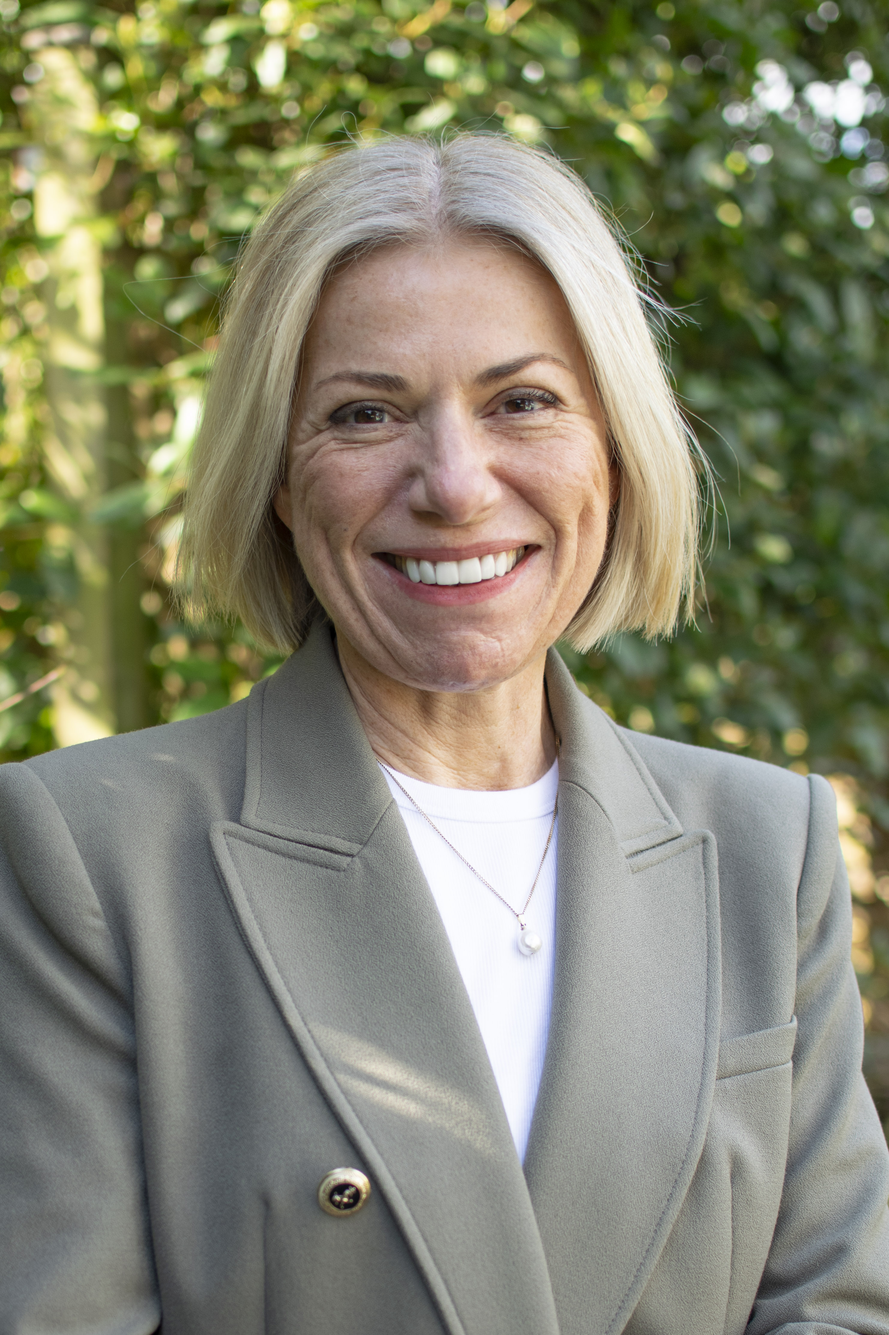
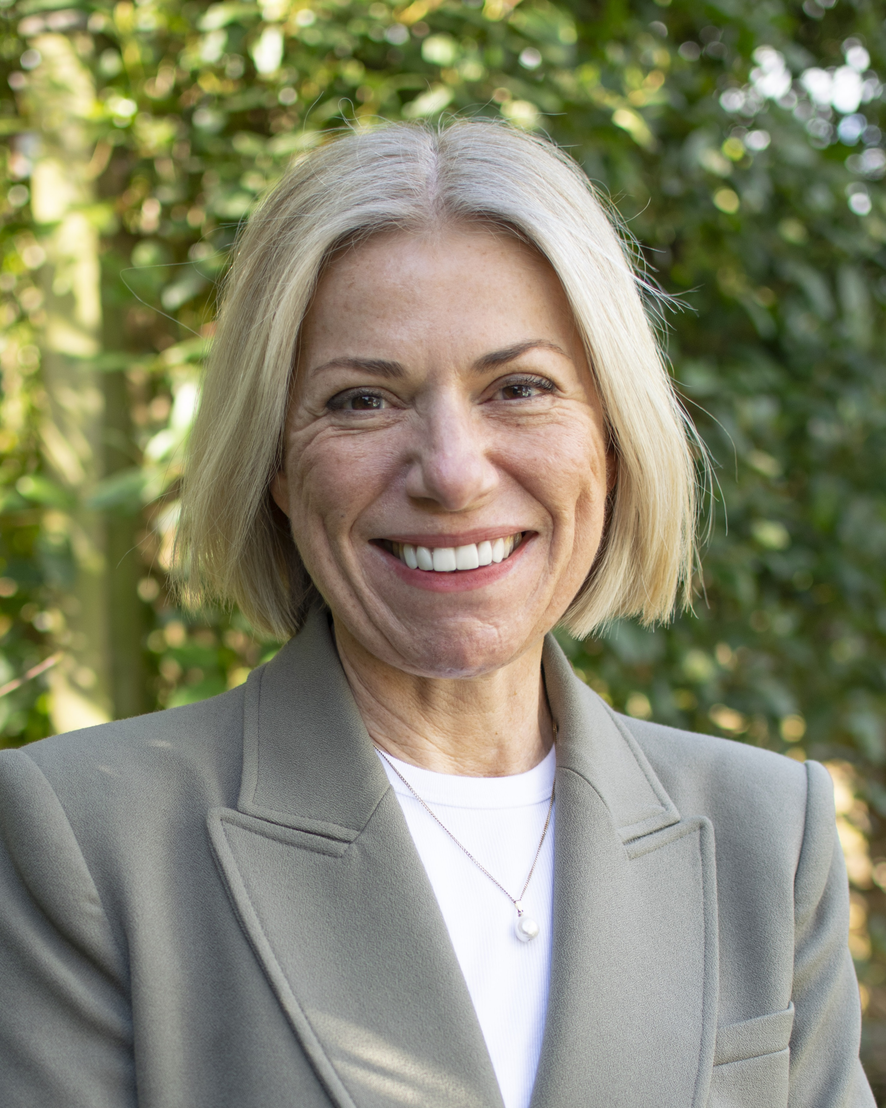
image and other tweaks

diff --git a/src/modules/footer/Footer.jsx b/src/modules/footer/Footer.jsx
@@ -19,7 +19,7 @@ export const Footer = () => (
   <>
     <FooterWrapper data-test-id="footer">
       <Box float="left">
-        <Text>Website By:&nbsp;
+        <Text textStyle={["xs", "xs", "md", "lg"]}>Website By:&nbsp;
           <CustomLink
             href="https://uk.linkedin.com/in/freddie-laycock-a23974171"
             newTab={true}
@@ -28,7 +28,7 @@ export const Footer = () => (
         </Text>
       </Box>
       <Box float="right">
-        <Text>
+        <Text textStyle={["xs", "xs", "md", "lg"]}>
           Photos By:&nbsp;
           <CustomLink
             href="#"

diff --git a/src/modules/contact/Contact.jsx b/src/modules/contact/Contact.jsx
@@ -9,7 +9,7 @@ export const Contact = () => (
   <Box id="contact" paddingBottom="16px">
     <SectionContainer heading="Contact Me">
       <Box marginY="auto">
-        <Image htmlWidth="100%" src={contact} />
+        <Image htmlWidth="100%" loading="lazy" src={contact} />
       </Box>
       <Box marginY="auto">
         <Text textStyle={["sm", "sm", "lg", "xl", "2xl"]}>

diff --git a/src/modules/about-me/AboutMe.jsx b/src/modules/about-me/AboutMe.jsx
@@ -7,7 +7,7 @@ import aboutMe from "../../images/about-me.jpg";
 export const AboutMe = () => (
   <SectionContainer heading="About Me">
     <Box marginY="auto">
-      <Image htmlWidth="100%" src={aboutMe} />
+      <Image htmlWidth="100%" loading="lazy" src={aboutMe} />
     </Box>
     <Box marginY="auto">
       <Text textStyle={["xs", "xs", "md", "lg", "xl"]}>
